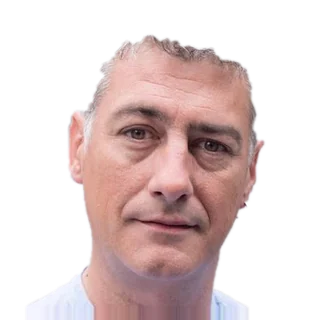
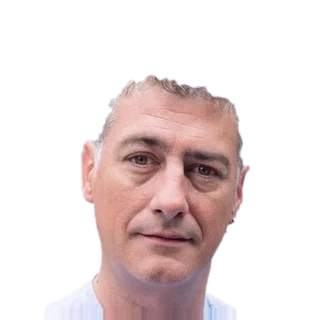
Spanyol oldal: fejek a körön belül, átlátszó háttér
Claude-Session: https://claude.ai/code/session_01J8PjfkUCs1TyppvFaUMZMM

Changed region(s): [[0.1875, 0.0938, 0.8438, 1.0]]

diff --git a/spanyol-valasztas.html b/spanyol-valasztas.html
@@ -278,8 +278,9 @@
 @media(max-width:600px){.rr .pn .fej{width:34px;height:34px}}
 .rr .pn i.fej{width:40px;height:40px;border-radius:50%;background:color-mix(in srgb,var(--c) 28%,var(--card))}@media(max-width:600px){.rr .pn i.fej{width:34px;height:34px}}
 .fej.fe,.rr .pn i.fej.fe{background:none;box-shadow:none;visibility:hidden}
-img.fej{background:var(--bg)!important;object-fit:cover}
-.hc .ph{border-radius:50%;background:var(--bg)}
+img.fej{background:transparent!important;object-fit:cover}
+.hc .ph{border-radius:50%;background:transparent}
+.pn .jn,.jn{display:flex!important;align-items:center;gap:6px;min-width:0}.jn>span{min-width:0;overflow-wrap:break-word}.jn img.jlg{margin-right:0;flex:none}
 </style>
 </head>
 <body>
@@ -421,7 +422,7 @@ const JEL={"PP":"Alberto Núñez Feijóo","PSOE":"Pedro Sánchez Pérez-Castejó
 const LOGO={"PP": "https://upload.wikimedia.org/wikipedia/commons/thumb/3/3c/Logo_del_PP_%282022%29.svg/250px-Logo_del_PP_%282022%29.svg.png", "PSOE": "https://upload.wikimedia.org/wikipedia/commons/thumb/9/9e/Logo_PSOE_41_Congreso.svg/250px-Logo_PSOE_41_Congreso.svg.png", "Vox": "https://upload.wikimedia.org/wikipedia/commons/thumb/a/aa/VOX_logo.svg/250px-VOX_logo.svg.png", "Frente Amplio": "https://upload.wikimedia.org/wikipedia/commons/thumb/2/29/Frente_AMPLIO.svg/250px-Frente_AMPLIO.svg.png", "Sumar": "https://upload.wikimedia.org/wikipedia/commons/thumb/8/8c/Movimiento_Sumar_logo_2025.svg/250px-Movimiento_Sumar_logo_2025.svg.png", "Podemos": "https://upload.wikimedia.org/wikipedia/commons/thumb/4/4e/Logo_de_Podemos_%282022%29.svg/250px-Logo_de_Podemos_%282022%29.svg.png", "SALF": "https://upload.wikimedia.org/wikipedia/commons/thumb/9/98/Se_acabo_la_fiesta_wordmark.png/250px-Se_acabo_la_fiesta_wordmark.png", "ERC": "https://upload.wikimedia.org/wikipedia/commons/thumb/9/9a/ERC_logo_2025.svg/250px-ERC_logo_2025.svg.png", "Junts": "https://upload.wikimedia.org/wikipedia/commons/thumb/9/92/Junts_per_Catalunya_%282020%29.svg/250px-Junts_per_Catalunya_%282020%29.svg.png", "EH Bildu": "https://upload.wikimedia.org/wikipedia/commons/thumb/d/d5/Logo_de_EH_Bildu_%282023%29.svg/250px-Logo_de_EH_Bildu_%282023%29.svg.png", "PNV": "https://upload.wikimedia.org/wikipedia/commons/thumb/3/31/Logo_PNV_2025.svg/250px-Logo_PNV_2025.svg.png", "BNG": "https://upload.wikimedia.org/wikipedia/commons/thumb/8/88/Bloque_Nacionalista_Galego.svg/250px-Bloque_Nacionalista_Galego.svg.png", "CC": "https://upload.wikimedia.org/wikipedia/commons/thumb/1/1c/Coalici%C3%B3n_Canaria.svg/250px-Coalici%C3%B3n_Canaria.svg.png", "UPN": "https://upload.wikimedia.org/wikipedia/commons/thumb/d/d0/Logo_UPN_2017.svg/250px-Logo_UPN_2017.svg.png"},FOTO={"PP": "assets/es/feijoo.webp", "PSOE": "assets/es/sanchez.webp", "Vox": "assets/es/abascal.webp", "Frente Amplio": "assets/es/colau.webp", "Sumar": "assets/es/colau.webp", "Podemos": "assets/es/montero.webp", "SALF": "assets/es/alvise.webp", "ERC": "assets/es/rufian.webp", "Junts": "assets/es/nogueras.webp", "EH Bildu": "assets/es/matute.webp", "PNV": "assets/es/vaquero.webp", "BNG": "assets/es/rego.webp", "CC": "assets/es/valido.webp"};
 const lgo=p=>LOGO[p]?'<img class="lgo'+(p==="ERC"||p==="SALF"?' lgd':'')+'" src="'+LOGO[p]+'" alt="'+esc(p)+'" loading="lazy">':'<i class="lgx" style="background:'+cl(p)+'"></i>';
 const lgs=p=>LOGO[p]?'<img class="jlg'+(p==="ERC"||p==="SALF"?' lgd':'')+'" src="'+LOGO[p]+'" alt="'+esc(p)+'" loading="lazy">':'';
-const pnm=p=>esc(p)+(JEL[p]?'<em class="jn">'+lgs(p)+esc(JEL[p])+'</em>':(LOGO[p]?'<em class="jn">'+lgs(p)+'</em>':''));
+const pnm=p=>esc(p)+(JEL[p]?'<em class="jn">'+lgs(p)+'<span>'+esc(JEL[p])+'</span></em>':(LOGO[p]?'<em class="jn">'+lgs(p)+'</em>':''));
 const mono=p=>{const j=JEL[p];if(!j||/^közös/.test(j))return esc(p.slice(0,3));const w=j.replace(/[„”"]/g,"").split(/\s+/).filter(x=>/^[A-ZÁÉÍÓÖŐÚÜŰÑ]/.test(x));return esc((w[0]||"")[0]+((w[1]||"")[0]||""));};
 const fej=p=>FOTO[p]?'<img class="fej" style="--c:'+cl(p)+'" src="'+FOTO[p]+'" alt="'+esc(JEL[p]||p)+'" loading="lazy">':'<i class="fej fe" aria-hidden="true"></i>';
 const pcell=p=>'<span class="pn">'+fej(p)+'<span>'+pnm(p)+'</span></span>';

diff --git a/sw.js b/sw.js
@@ -1,7 +1,7 @@
 /* Választások – offline gyorsítótár.
    Oldalak és élő adatok: mindig a hálózatról, gyorsítótár csak tartaléknak (offline).
    Statikus fájlok: azonnal a gyorsítótárból, közben a háttérben frissül. */
-const V="v61s",CORE="core-"+V,RT="rt-"+V;
+const V="v61t",CORE="core-"+V,RT="rt-"+V;
 const PRE=["./","index.html","eredmenyek","spanyol-valasztas","spanyol-szimulator","spanyol-valasztas.html","spanyol-szimulator.html","zold-foki-szigetek-valasztas","zold-foki-szigetek-valasztas.html","eredmenyek.html","magyarorszag.html","szimulator.html","orszag.html","spanyolorszag.html","nemetorszag.html","ausztria.html","szlovakia.html","romania.html","egyesult-allamok.html","valasztasi-rendszer.html","naptar.html","404.html",
   "assets/portal.css?v=16","assets/orszagok.js?v=11","assets/fastzoom.js?v=1","assets/anim.js?v=3","assets/terkep-anim.js?v=4","assets/app.js?v=9","assets/app/icon-192.png?v=3","manifest.webmanifest"];
 self.addEventListener("install",e=>{e.waitUntil(caches.open(CORE).then(c=>Promise.all(PRE.map(u=>c.add(u).catch(()=>{})))).then(()=>self.skipWaiting()));});
